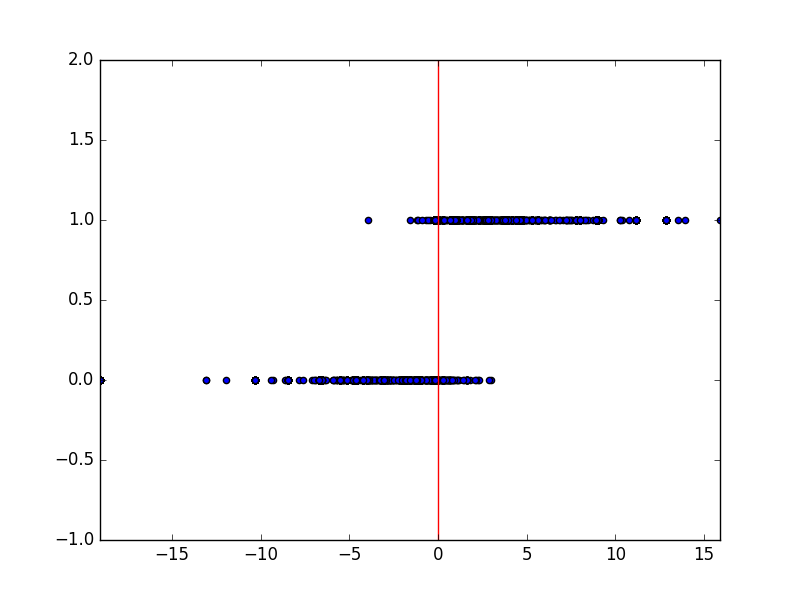
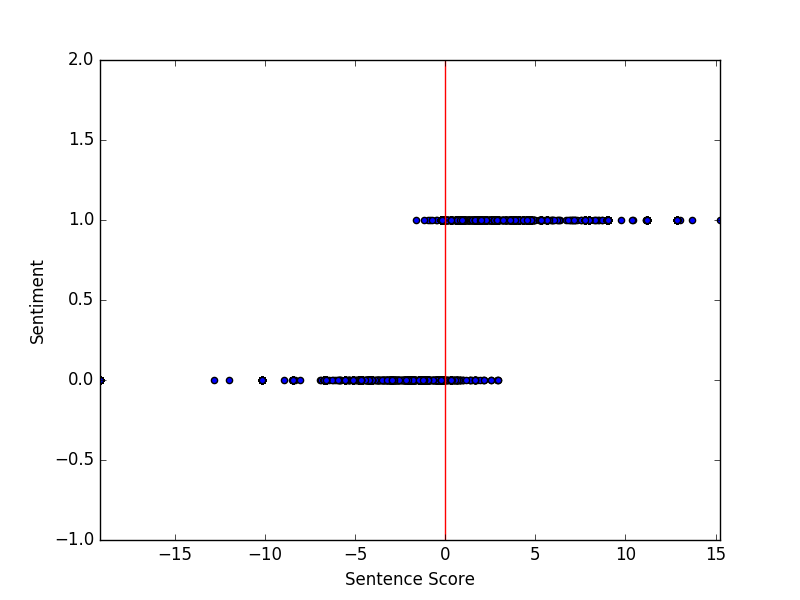
Updated a plot

diff --git a/project.py b/project.py
@@ -95,6 +95,8 @@ plt.scatter(ss,train_Y)
 plt.axvline(x=0, color='r', linestyle='-')
 plt.xlim(np.min(np.array(ss)), np.max(np.array(ss)))
 plt.ylim(-1,2)
+plt.xlabel("Sentence Score")
+plt.ylabel("Sentiment")
 plt.show()
 #Logistic Regression
 uniqueWords = {}
